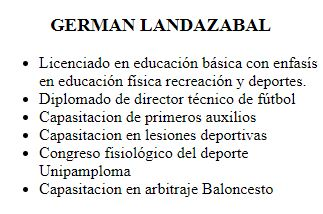
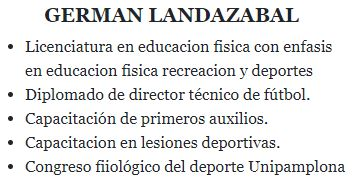
https://github.com/cesarcarvajalt/clubdeportivounioncucuta

diff --git a/NOSOTROS.HTML b/NOSOTROS.HTML
@@ -8,7 +8,7 @@
     <link href="https://cdn.jsdelivr.net/npm/bootstrap@5.0.0-beta2/dist/css/bootstrap.min.css" rel="stylesheet" 
     integrity="sha384-BmbxuPwQa2lc/FVzBcNJ7UAyJxM6wuqIj61tLrc4wSX0szH/Ev+nYRRuWlolflfl" crossorigin="anonymous">
 </head>
-<body >
+<body style="margin: 20px;">
     <div>
         <a href="index.html" ><h1 class="titulo">Club Deportivo Union Cúcuta</h1></a>
     <p><h2>Quienes somos?</h2></br>
@@ -48,9 +48,22 @@
                 <img src="" id="varia" >
                 
             </td>
+            <!--imagenes para descripcion de profesores
+            <td>
+                <h5 style="font-family: Georgia, 'Times New Roman', Times, serif; " ><strong> GERMAN LANDAZABAL</strong></h5>
+                <ul style="font-family: Georgia, 'Times New Roman', Times, serif; text-align: left;" >
+                    <li>Licenciatura en educacion fisica con enfasis en educacion fisica recreacion y deportes</li>
+                    <li>Diplomado de director técnico de fútbol.</li>
+                    <li>Capacitación de primeros auxilios.</li>
+                    <li>Capacitacion en lesiones deportivas.</li>
+                    <li>Congreso fiiológico del deporte Unipamplona</li>
+                    
+                </ul>
+            </td>-->
         </tr>
     <tr>
         <td>
+            <h1 id="text" ></h1> 
             <img src="" id="varias"> 
         </td>
     </tr></br>
@@ -82,4 +95,5 @@
         </tr>
     </table>
 </footer>
+
 </html>

diff --git a/java.js b/java.js
@@ -1,11 +1,13 @@
-var imagenes=new Array(['imagenes/fabio.JPG','imagenes/fabio2.JPG'],
-['imagenes/german.JPG','imagenes/german2.JPG'],
-['imagenes/tellez.JPG','imagenes/tellez2.JPG'],);
+var imagenes=new Array(['imagenes/fabio.JPG','imagenes/fabio2.JPG',"ENTRENADOR"],
+['imagenes/german.JPG','imagenes/german2.JPG',"ENTRENADOR"],
+['imagenes/tellez.JPG','imagenes/tellez2.JPG',"ENTRENADOR"],
+['imagenes/andelfo.JPG','imagenes/andelfo2.JPG',"PSICOLOGO"],);
 var contador=-1;
  function rotarImagenes(){
      contador++
      document.getElementById("varia").src=imagenes[contador%imagenes.length][0];
-      document.getElementById("varias").src=imagenes[contador%imagenes.length][1]
+      document.getElementById("varias").src=imagenes[contador%imagenes.length][1];
+      document.getElementById("text").innerHTML=imagenes[contador%imagenes.length][2]
      }
 onload=function(){
     rotarImagenes();

diff --git a/index.html b/index.html
@@ -34,6 +34,16 @@
             </td>
         </tr>
         </table>
+        <div><!--apertura actividad deportiva-->
+            <h1 >NUEVO INTEGRANTE DE NUESTRA FAMILIA</h1>
+            <P  >El CLUB DEPORTIVO UNIÓN CUCUTA Se complace en presentar a nuestro nuevo integrante el psicólogo
+                 <strong>Andelfo Rojas</strong> .Quien apartir de hoy empezará a trabajar por el bienestar de 
+                 nuestros deportistas, abarcará toda la parte psicologíca aplicada al fútbol de nuestros niños.
+                <strong>BIENVENIDO.</strong> 
+            </P></br>
+            <div align="center"> 
+                <img src="imagenes/andelfo3.jpg"  width="50%"/></br>
+            </div><br>
 
         <div><!--inscripsiones-->
             <h1 >INSCRIPCIONES ABIERTAS</h1>
